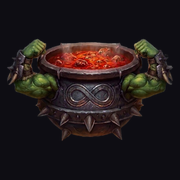
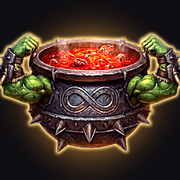
Small cauldron versions: brighter, golden rim light and warm glow so they read at small size
Claude-Session: https://claude.ai/code/session_01SH7kbRrGsk4GUUU18PNwjs

diff --git a/css/style.css b/css/style.css
@@ -47,7 +47,7 @@ a:hover { color: #fff; }
 .brand { flex: none; display: flex; align-items: center; gap: 12px; font-family: var(--font-display); font-size: 21px; font-weight: 700; letter-spacing: .06em; text-decoration: none; color: var(--gold-bright); text-shadow: 0 1px 0 #000; }
 .brand:hover { color: #fff; }
 /* Own emblem: the flexing cauldron on its own (img/logo-mark.png; the whole logo with shield and banner: img/logo.png / logo.webp) */
-.brand-logo { flex: none; width: auto; height: 52px; margin: -4px 0; object-fit: contain; filter: drop-shadow(0 1px 2px rgba(0, 0, 0, .6)); }
+.brand-logo { flex: none; width: auto; height: 58px; margin: -7px -4px; object-fit: contain; filter: drop-shadow(0 1px 2px rgba(0, 0, 0, .6)); }
 .site-nav { flex: 1 1 auto; display: flex; flex-wrap: wrap; justify-content: center; gap: 2px; }
 .site-nav a { padding: 10px 14px; border-radius: 4px; text-decoration: none; color: var(--muted); font-weight: 600; white-space: nowrap; border-bottom: 2px solid transparent; }
 .site-nav a:hover { color: var(--text); background: rgba(255, 255, 255, .05); }
@@ -68,7 +68,7 @@ a:hover { color: #fff; }
 @media (max-width: 640px) {
   .site-header { padding: 8px 12px 4px; gap: 6px 10px; flex-wrap: wrap; }
   .brand { gap: 8px; font-size: 15px; letter-spacing: .03em; min-width: 0; }
-  .brand-logo { height: 36px; margin: 0; }
+  .brand-logo { height: 42px; margin: -3px -3px; }
   .auth { gap: 8px; }
   .auth .btn { padding: 7px 10px; font-size: 13px; }
   .auth .user-name { display: none; }

diff --git a/js/layout.js b/js/layout.js
@@ -28,7 +28,7 @@ export async function renderHeader() {
   const header = document.createElement('header');
   header.className = 'site-header';
   header.innerHTML = `
-    <a class="brand" href="index.html"><img class="brand-logo" src="img/logo-mark.png?v=__V__" alt="" width="84" height="52">Mannenkeuken</a>
+    <a class="brand" href="index.html"><img class="brand-logo" src="img/logo-mark.png?v=__V__" alt="" width="86" height="56">Mannenkeuken</a>
     <nav class="site-nav" aria-label="Main">
       ${pages.map(([href, label]) => `<a href="${href}" class="${href === current ? 'active' : ''}">${label}</a>`).join('')}
     </nav>

diff --git a/docs/instructies.md b/docs/instructies.md
@@ -37,7 +37,7 @@ Twee vaste taken:
 - **Addons** en **Guild Bank**: worden niet meer gebruikt; die staan nu op het dashboard.
 
 ### Dashboard (pagina's)
-Home (eigen character + notes, guildoverzicht als grafiek met filters en tabelweergave, trades en events met Wowhead-links + hover, "For you": getagd in events en op de market + verzoeken die je kunt craften, guildoverzicht, bankgoud, events, releases) · Roster (incl. Notes) · Professions (met aantal spelers per beroep, eigen beroepsicoontjes + Wowhead-link met hover) · Trade Market (zoeken op item, reserveren, players taggen, beroep + skill bij verzoeken, filters; eigen listings bewerken, afronden en verwijderen; **My finished listings** toont je afgeronde listings met **Reopen** en **Delete**; items die niet stapelbaar zijn, zoals wapens en armor, krijgen automatisch aantal 1; je kunt alleen een item plaatsen dat je uit de zoeklijst kiest, en die lijst bevat alleen verhandelbare items; als je in de zoeklijst over een item hovert, verschijnt de Wowhead-tooltip met de eigenschappen, ook in de Guild Bank) · Raids & Events (weekagenda met icoontjes per soort, hoverkaartje en quest/dungeon-links met Wowhead-hover; specifieke rollen óf "just players" + aantal, players taggen, dungeon-/raidzoeker op de titel, quest help met questzoeker, WoW: Forever-releases) · Guild Bank (goud + Top donors, guildbank, Opie Bank) · Achievements · Addons & Settings · My profile (main + max. 2 alts) · speler- en characterpagina's. **Uiterlijk**: donker fantasy-thema (zwart/paars, goud, rood) in `css/style.css`, zonder Blizzard- of Wowhead-materiaal. **Logo** = de flexende kookpot op een stenen schild (groene Horde-armen, stoofpot boven vuur, lint met MANNENKEUKEN; gemaakt met een beeldmodel, achtergrond uitgeknipt): `img/logo.png` (volledig, groot; voor Discord e.d.) en `img/logo.webp` (zelfde, licht; voor de site), `img/logo-mark.png` (alleen de flexende kookpot, aparte afbeelding; in de header, 52 px hoog) en `img/icon-128.png` + `img/favicon-32.png` + `img/apple-touch-icon.png` (dezelfde pot in een vierkant; favicon in de browserbalk en telefoon-snelkoppeling). `img/discord-icon.png` (512×512, de pot op de donkere achtergrond) is het servericoon van Discord. Logo's worden niet bijgesneden. Het volledige logo (met lint) staat ook als vast watermerk (12% dekking) helemaal in beeld rechtsonder achter de pagina (`body::before` in `css/style.css`). Elke pagina heeft de icon-links in de `<head>`; nieuwe pagina → die drie regels meenemen. Rechtsboven staat naast je naam het icoon van de class van je main (in de kleur van die class).
+Home (eigen character + notes, guildoverzicht als grafiek met filters en tabelweergave, trades en events met Wowhead-links + hover, "For you": getagd in events en op de market + verzoeken die je kunt craften, guildoverzicht, bankgoud, events, releases) · Roster (incl. Notes) · Professions (met aantal spelers per beroep, eigen beroepsicoontjes + Wowhead-link met hover) · Trade Market (zoeken op item, reserveren, players taggen, beroep + skill bij verzoeken, filters; eigen listings bewerken, afronden en verwijderen; **My finished listings** toont je afgeronde listings met **Reopen** en **Delete**; items die niet stapelbaar zijn, zoals wapens en armor, krijgen automatisch aantal 1; je kunt alleen een item plaatsen dat je uit de zoeklijst kiest, en die lijst bevat alleen verhandelbare items; als je in de zoeklijst over een item hovert, verschijnt de Wowhead-tooltip met de eigenschappen, ook in de Guild Bank) · Raids & Events (weekagenda met icoontjes per soort, hoverkaartje en quest/dungeon-links met Wowhead-hover; specifieke rollen óf "just players" + aantal, players taggen, dungeon-/raidzoeker op de titel, quest help met questzoeker, WoW: Forever-releases) · Guild Bank (goud + Top donors, guildbank, Opie Bank) · Achievements · Addons & Settings · My profile (main + max. 2 alts) · speler- en characterpagina's. **Uiterlijk**: donker fantasy-thema (zwart/paars, goud, rood) in `css/style.css`, zonder Blizzard- of Wowhead-materiaal. **Logo** = de flexende kookpot op een stenen schild (groene Horde-armen, stoofpot boven vuur, lint met MANNENKEUKEN; gemaakt met een beeldmodel, achtergrond uitgeknipt): `img/logo.png` (volledig, groot; voor Discord e.d.) en `img/logo.webp` (zelfde, licht; voor de site), `img/logo-mark.png` (alleen de flexende kookpot, aparte afbeelding; voor klein formaat lichter gemaakt met een gouden lichtrand; in de header, 58 px hoog) en `img/icon-128.png` + `img/favicon-32.png` + `img/apple-touch-icon.png` (dezelfde pot in een vierkant; favicon in de browserbalk en telefoon-snelkoppeling). `img/discord-icon.png` (512×512, transparant: de pot met lichtrand en warme gloed, armen steken iets uit) is het servericoon van Discord. Logo's worden niet bijgesneden. Het volledige logo (met lint) staat ook als vast watermerk (12% dekking) helemaal in beeld rechtsonder achter de pagina (`body::before` in `css/style.css`). Elke pagina heeft de icon-links in de `<head>`; nieuwe pagina → die drie regels meenemen. Rechtsboven staat naast je naam het icoon van de class van je main (in de kleur van die class).
 
 Gegevens: de **sheet** is leidend voor level, beroepen en notes. De rest staat in **Supabase**: `players` (sheetnaam ↔ Discordnaam), `members` (browser ↔ speler), `profiles`, `alts`, `listings`, `listing_reservations`, `events` (+ `players_needed`, `pinged`, `quest_id`, `dungeon`), `signups`, `bank`, `bank_items`, `bank_reservations`, `gold_donations`, `addons`, `tips`.
 
